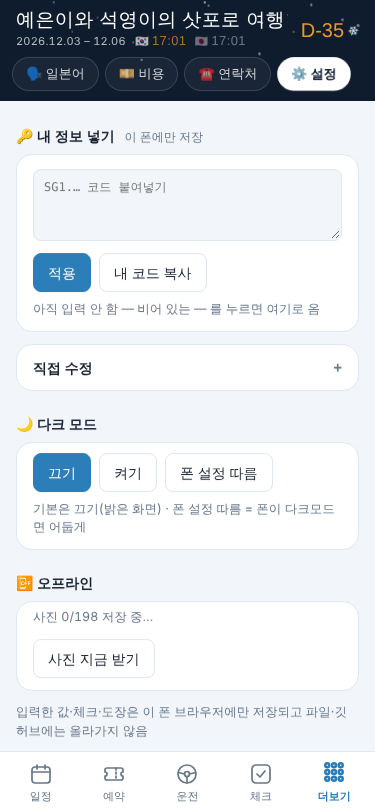
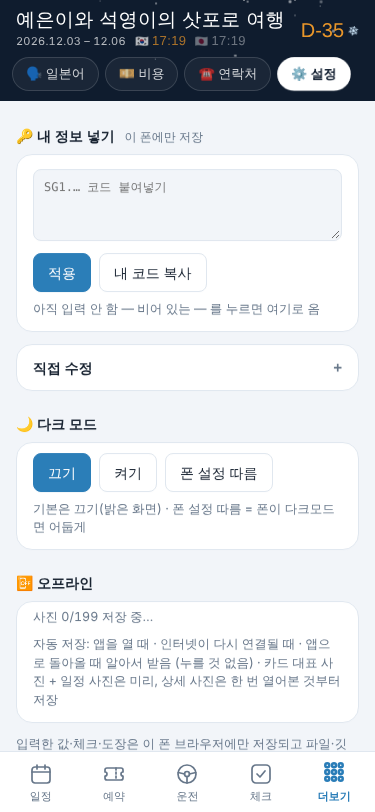
오프라인 사진 저장 완전 자동화
- '사진 지금 받기' 버튼 제거 · 앱 열 때/인터넷 재연결/앱 복귀 시 자동 저장
- 덜 받은 사진은 1분 간격 자동 재시도 · 저장공간 유지 요청(persist)

Claude-Session: https://claude.ai/code/session_0184q9rKWaEqKmWB1tQ5ftUr

diff --git a/index.html b/index.html
@@ -708,9 +708,9 @@ tr.pick td{background:var(--lamp-soft);font-weight:700}
 <h3 class="sec">🌙 다크 모드</h3>
 <div class="form"><div class="btns" id="theme"><button data-t="light">끄기</button><button data-t="dark">켜기</button><button data-t="auto">폰 설정 따름</button></div><div class="st">기본은 끄기(밝은 화면) · 폰 설정 따름 = 폰이 다크모드면 어둡게</div></div>
 <h3 class="sec">📴 오프라인</h3>
-<div class="form"><div class="st" id="off-st">앱 화면·글은 자동 저장됨 · 사진 저장 확인 중…</div><div class="btns"><button id="off-b">사진 지금 받기</button></div></div>
+<div class="form"><div class="st" id="off-st">앱 화면·글은 자동 저장됨 · 사진 저장 확인 중…</div><div class="st">자동 저장: 앱을 열 때 · 인터넷이 다시 연결될 때 · 앱으로 돌아올 때 알아서 받음 (누를 것 없음) · 카드 대표 사진 + 일정 사진은 미리, 상세 사진은 한 번 열어본 것부터 저장</div></div>
 <p class="hint">입력한 값·체크·도장은 이 폰 브라우저에만 저장되고 파일·깃허브에는 올라가지 않음</p>
-<p class="hint">장소 사진 · Wikimedia Commons (팝업에 원본 링크) · 버전 20261029-1705</p>
+<p class="hint">장소 사진 · Wikimedia Commons (팝업에 원본 링크) · 버전 20261029-1719</p>
 </div></section>
 </main>
 <nav class="bn" aria-label="메뉴">
@@ -920,10 +920,11 @@ tr.pick td{background:var(--lamp-soft);font-weight:700}
     caches.open('sg-img2').then(function(c){var list=imgList(),done=0,miss=[];
       return Promise.all(list.map(function(u){return c.match(u).then(function(r){if(r)done++;else miss.push(u)})})).then(function(){
         ost.textContent='사진 '+done+'/'+list.length+' 저장됨'+(miss.length?' · 받는 중…':' · 오프라인에서도 전부 보임');
-        var i=0;function next(){if(i>=miss.length){warming=false;var left=list.length-done;ost.textContent='사진 '+done+'/'+list.length+' 저장됨'+(left?' · 나머지 잠시 후 다시 시도':' · 오프라인에서도 전부 보임');if(left&&warmTries++<4)setTimeout(function(){warm()},20000);return}
+        var i=0;function next(){if(i>=miss.length){warming=false;var left=list.length-done;ost.textContent='사진 '+done+'/'+list.length+' 저장됨'+(left?' · 나머지 잠시 후 다시 시도':' · 오프라인에서도 전부 보임');if(left&&warmTries++<10)setTimeout(function(){warm()},60000);return}
           var u=miss[i++];var wm=u.indexOf('upload.wikimedia.org')>0;fetch(u,{mode:wm?'cors':'no-cors',referrerPolicy:'no-referrer',credentials:'omit'}).then(function(r){if(r.ok||r.type==='opaque'){done++;return c.put(u,r)}}).catch(function(){}).then(function(){ost.textContent='사진 '+done+'/'+list.length+' 저장 중…';setTimeout(next,force?150:350)})}
         next()})}).catch(function(){warming=false;ost.textContent='사진 저장 불가 (브라우저 미지원)'})}
-  $('#off-b').addEventListener('click',function(){warm(true)});
+  try{if(navigator.storage&&navigator.storage.persist)navigator.storage.persist()}catch(e){}
+  document.addEventListener('visibilitychange',function(){if(!document.hidden)warm()});
   if('requestIdleCallback' in window)requestIdleCallback(function(){warm()},{timeout:4000});else setTimeout(warm,2500);
   /* PWA */
   var dp=null,inst=$('#inst'),standalone=(navigator.standalone===true)||(window.matchMedia&&matchMedia('(display-mode: standalone)').matches),ios=/iPhone|iPad|iPod/.test(navigator.userAgent)||(navigator.platform==='MacIntel'&&navigator.maxTouchPoints>1);

diff --git a/sw.js b/sw.js
@@ -1,4 +1,4 @@
-const V='sg-'+'20261029-1705';const IMG='sg-img2',FONT='sg-font';
+const V='sg-'+'20261029-1719';const IMG='sg-img2',FONT='sg-font';
 const CORE=['./','./index.html','./app.webmanifest','./icon-192.png','./icon-512.png','./icon-maskable.png','./apple-touch-icon.png','./bus.jpg'];
 self.addEventListener('install',e=>{e.waitUntil(caches.open(V).then(c=>c.addAll(CORE)).then(()=>self.skipWaiting()))});
 self.addEventListener('activate',e=>{e.waitUntil(caches.keys().then(ks=>Promise.all(ks.filter(k=>k.startsWith('sg-')&&k!==V&&k!==IMG&&k!==FONT).map(k=>caches.delete(k)))).then(()=>self.clients.claim()))});

diff --git a/build.py b/build.py
@@ -514,7 +514,7 @@ SET='''
 <h3 class="sec">🌙 다크 모드</h3>
 <div class="form"><div class="btns" id="theme"><button data-t="light">끄기</button><button data-t="dark">켜기</button><button data-t="auto">폰 설정 따름</button></div><div class="st">기본은 끄기(밝은 화면) · 폰 설정 따름 = 폰이 다크모드면 어둡게</div></div>
 <h3 class="sec">📴 오프라인</h3>
-<div class="form"><div class="st" id="off-st">앱 화면·글은 자동 저장됨 · 사진 저장 확인 중…</div><div class="btns"><button id="off-b">사진 지금 받기</button></div></div>
+<div class="form"><div class="st" id="off-st">앱 화면·글은 자동 저장됨 · 사진 저장 확인 중…</div><div class="st">자동 저장: 앱을 열 때 · 인터넷이 다시 연결될 때 · 앱으로 돌아올 때 알아서 받음 (누를 것 없음) · 카드 대표 사진 + 일정 사진은 미리, 상세 사진은 한 번 열어본 것부터 저장</div></div>
 <p class="hint">입력한 값·체크·도장은 이 폰 브라우저에만 저장되고 파일·깃허브에는 올라가지 않음</p>
 <p class="hint">장소 사진 · Wikimedia Commons (팝업에 원본 링크) · 버전 '''+VER+'''</p>
 '''
@@ -1710,10 +1710,11 @@ JS = r'''
     caches.open('sg-img2').then(function(c){var list=imgList(),done=0,miss=[];
       return Promise.all(list.map(function(u){return c.match(u).then(function(r){if(r)done++;else miss.push(u)})})).then(function(){
         ost.textContent='사진 '+done+'/'+list.length+' 저장됨'+(miss.length?' · 받는 중…':' · 오프라인에서도 전부 보임');
-        var i=0;function next(){if(i>=miss.length){warming=false;var left=list.length-done;ost.textContent='사진 '+done+'/'+list.length+' 저장됨'+(left?' · 나머지 잠시 후 다시 시도':' · 오프라인에서도 전부 보임');if(left&&warmTries++<4)setTimeout(function(){warm()},20000);return}
+        var i=0;function next(){if(i>=miss.length){warming=false;var left=list.length-done;ost.textContent='사진 '+done+'/'+list.length+' 저장됨'+(left?' · 나머지 잠시 후 다시 시도':' · 오프라인에서도 전부 보임');if(left&&warmTries++<10)setTimeout(function(){warm()},60000);return}
           var u=miss[i++];var wm=u.indexOf('upload.wikimedia.org')>0;fetch(u,{mode:wm?'cors':'no-cors',referrerPolicy:'no-referrer',credentials:'omit'}).then(function(r){if(r.ok||r.type==='opaque'){done++;return c.put(u,r)}}).catch(function(){}).then(function(){ost.textContent='사진 '+done+'/'+list.length+' 저장 중…';setTimeout(next,force?150:350)})}
         next()})}).catch(function(){warming=false;ost.textContent='사진 저장 불가 (브라우저 미지원)'})}
-  $('#off-b').addEventListener('click',function(){warm(true)});
+  try{if(navigator.storage&&navigator.storage.persist)navigator.storage.persist()}catch(e){}
+  document.addEventListener('visibilitychange',function(){if(!document.hidden)warm()});
   if('requestIdleCallback' in window)requestIdleCallback(function(){warm()},{timeout:4000});else setTimeout(warm,2500);
   /* PWA */
   var dp=null,inst=$('#inst'),standalone=(navigator.standalone===true)||(window.matchMedia&&matchMedia('(display-mode: standalone)').matches),ios=/iPhone|iPad|iPod/.test(navigator.userAgent)||(navigator.platform==='MacIntel'&&navigator.maxTouchPoints>1);
